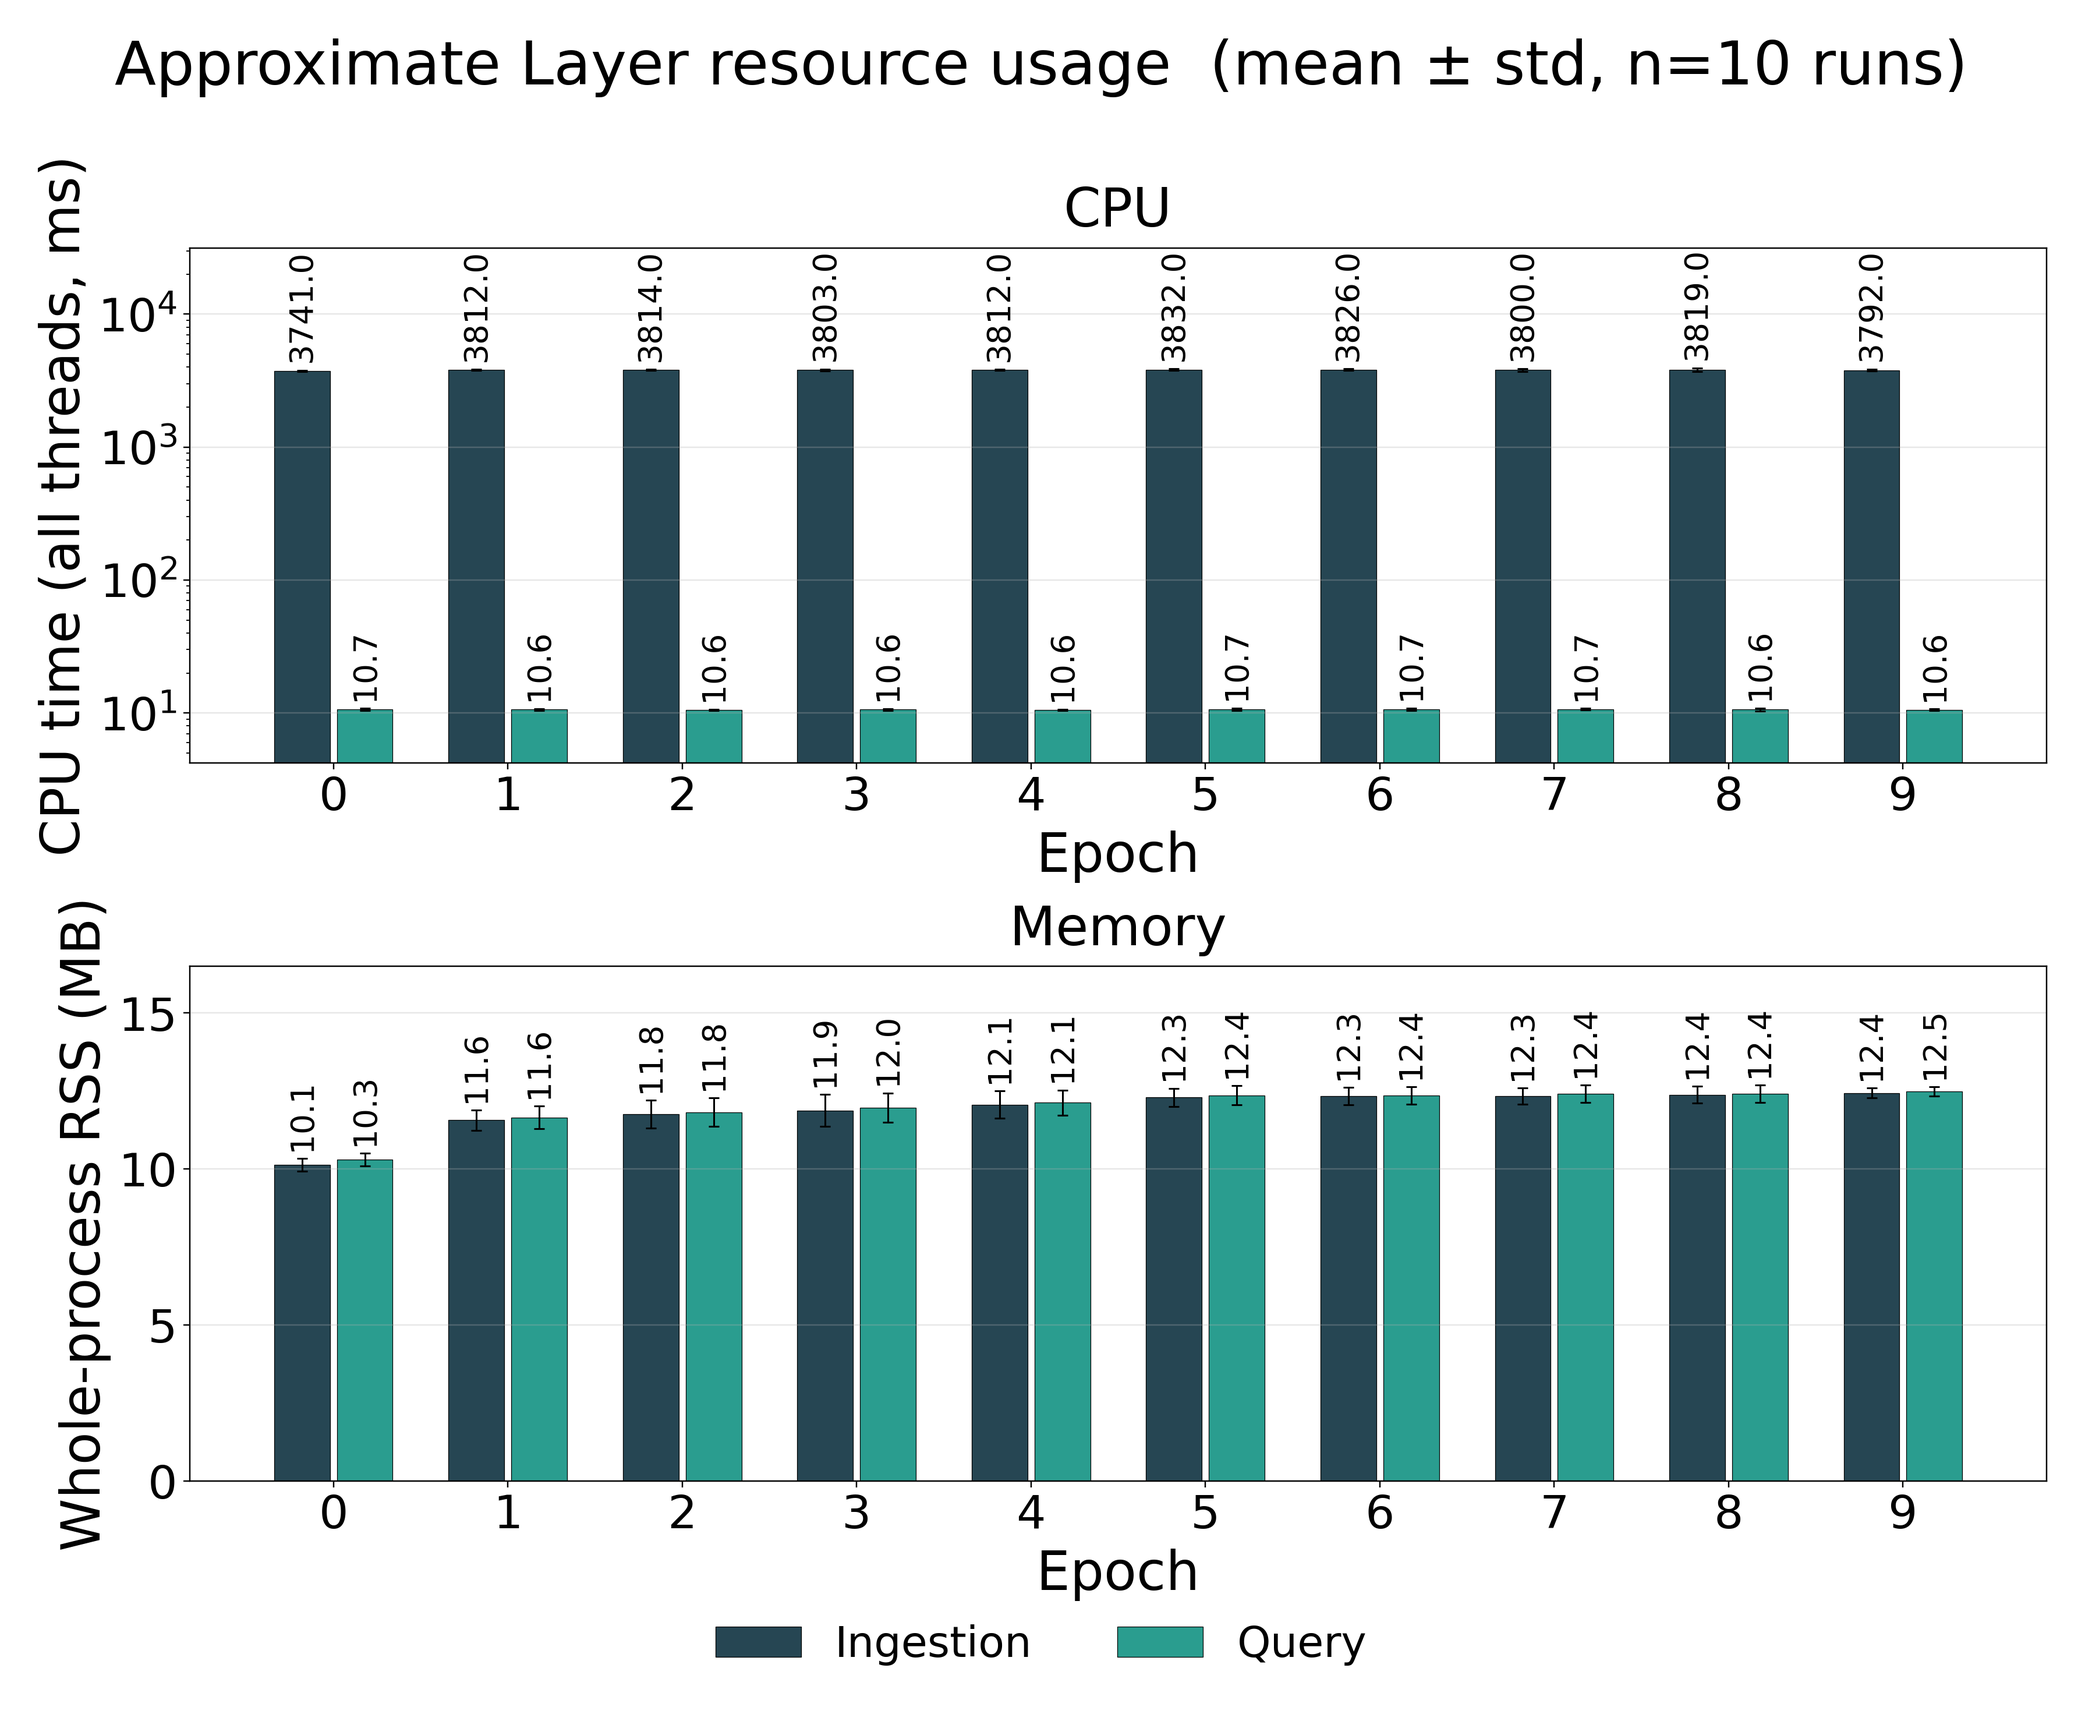
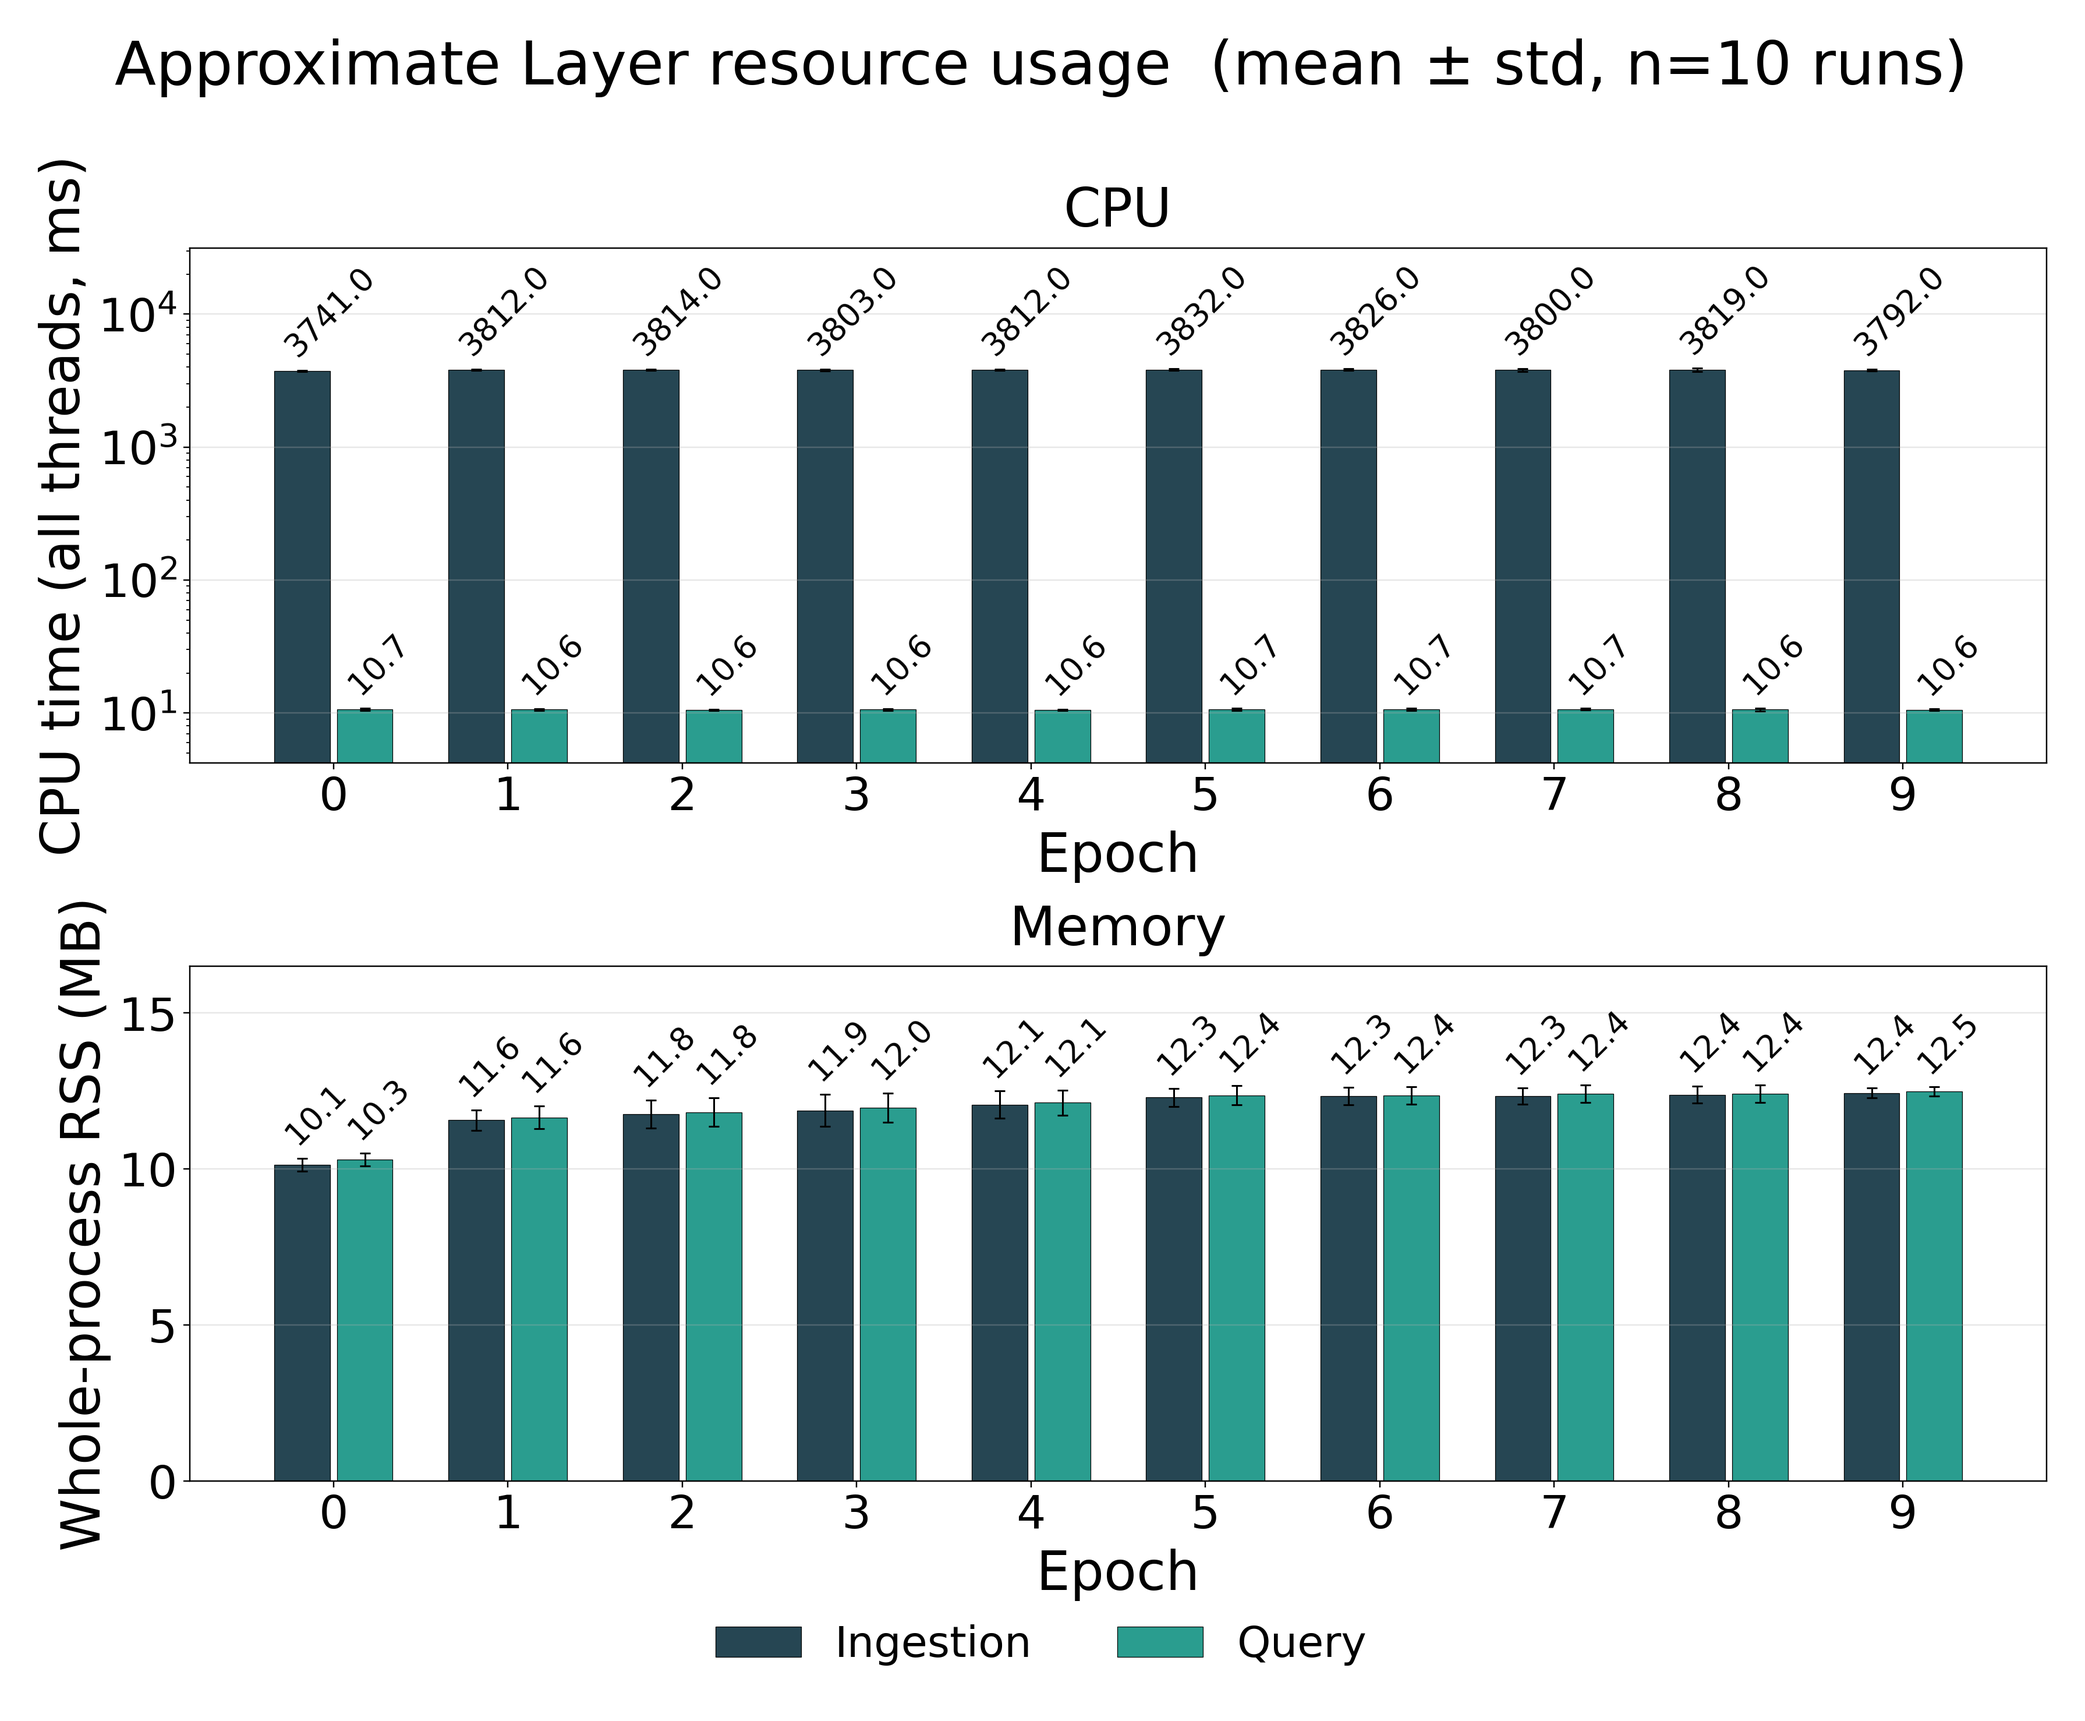
incline the number

diff --git a/scripts/plot_resource_benchmark.py b/scripts/plot_resource_benchmark.py
@@ -328,16 +328,17 @@ def _draw_sketch_two_series(ax, ingest: dict, query: dict, ylabel: str,
            color=SERVER_COLOR, capsize=3, edgecolor="black", linewidth=0.4,
            error_kw={"linewidth": 1, "ecolor": "black"})
 
-    # Value labels are rotated vertical so adjacent ingestion / query labels in
-    # the same epoch group never overlap horizontally.
+    # Value labels are slanted (45°) rather than fully vertical so they read
+    # more naturally; ha="left" anchors each label at its bar and lets the text
+    # run up-and-to-the-right, keeping adjacent ingestion / query labels apart.
     label_fs = 9 * font_scale
 
     def label_above(xs, means, stds, mult, pad):
         for xi, m, s in zip(xs, means, stds):
             if not np.isnan(m):
                 ax.text(xi, (m + s) * mult if log_y else m + s + pad,
-                        f"{m:.1f}", ha="center", va="bottom", rotation=90,
-                        fontsize=label_fs)
+                        f"{m:.1f}", ha="left", va="bottom", rotation=45,
+                        rotation_mode="anchor", fontsize=label_fs)
 
     if log_y:
         ax.set_yscale("log")
